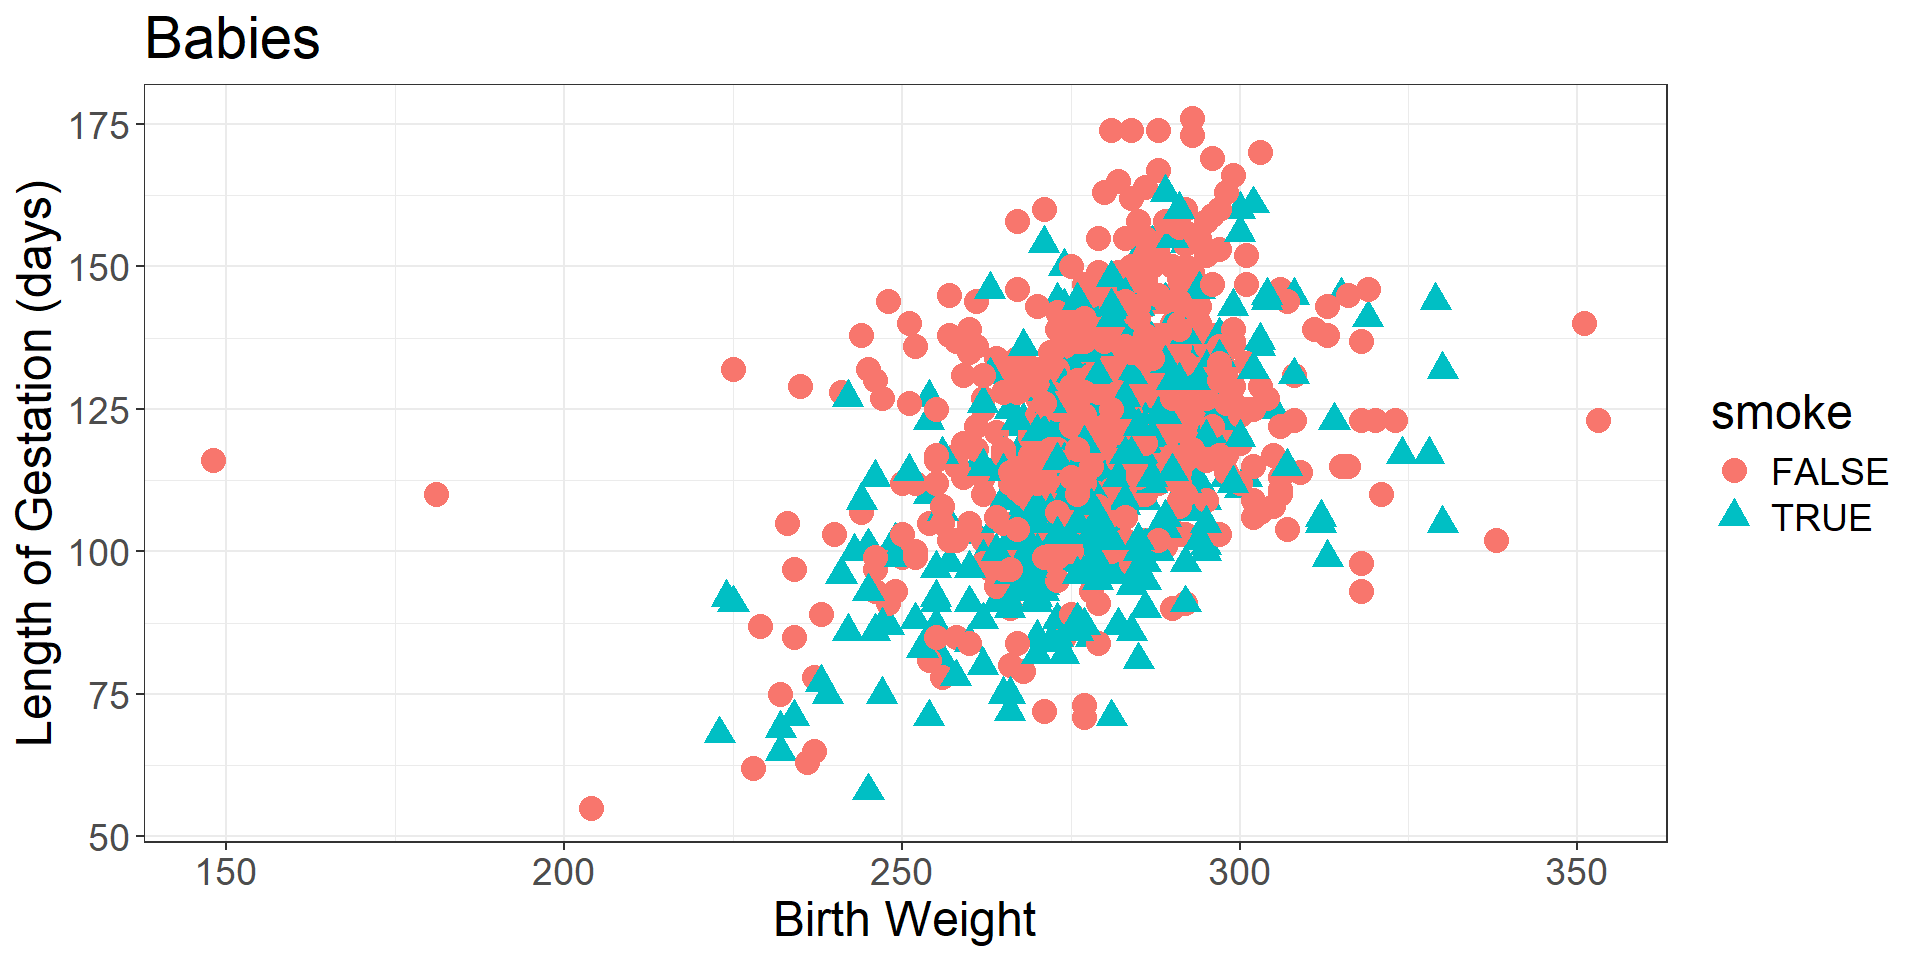
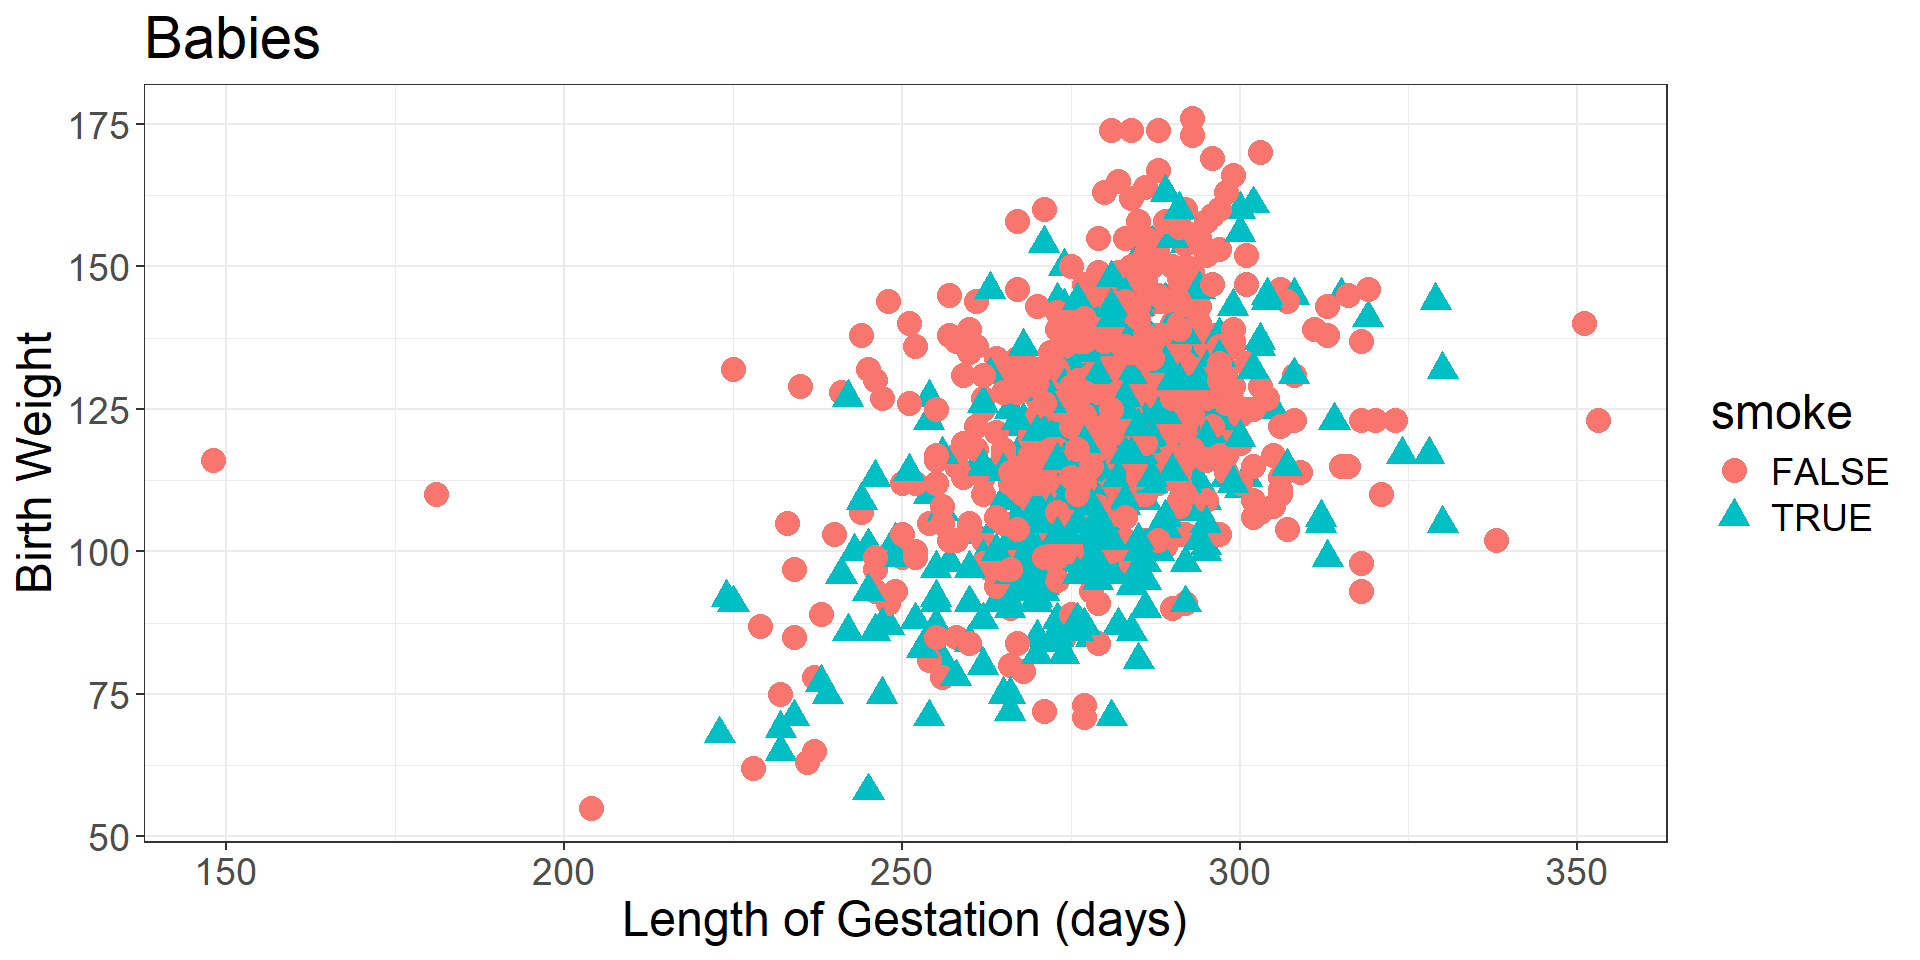
names of the axes reversed

Changed region(s): [[0.0, 0.1875, 0.0312, 0.7812], [0.3125, 0.9375, 0.625, 1.0]]

diff --git a/03-Week-03/01-Lecture-04-Lab-02.html b/03-Week-03/01-Lecture-04-Lab-02.html
@@ -963,8 +963,8 @@
 <span id="cb16-4"><a href=""></a>           <span class="at">shape =</span> smoke,</span>
 <span id="cb16-5"><a href=""></a>           <span class="at">color =</span> smoke)) <span class="sc">+</span></span>
 <span id="cb16-6"><a href=""></a>  <span class="fu">geom_point</span>(<span class="at">size =</span> <span class="dv">4</span>) <span class="sc">+</span></span>
-<span id="cb16-7"><a href=""></a>  <span class="fu">labs</span>(<span class="at">x =</span> <span class="st">"Birth Weight"</span>,</span>
-<span id="cb16-8"><a href=""></a>       <span class="at">y =</span> <span class="st">"Length of Gestation (days)"</span>,</span>
+<span id="cb16-7"><a href=""></a>  <span class="fu">labs</span>(<span class="at">x =</span> <span class="st">"Length of Gestation (days)"</span>,</span>
+<span id="cb16-8"><a href=""></a>       <span class="at">y =</span> <span class="st">"Birth Weight"</span>,</span>
 <span id="cb16-9"><a href=""></a>       <span class="at">title =</span> <span class="st">"Babies"</span>)</span></code><button title="Copy to Clipboard" class="code-copy-button"><i class="bi"></i></button></pre></div>
 </div><div class="column">
 <div class="cell-output-display">
@@ -988,8 +988,8 @@
 <span id="cb17-4"><a href=""></a>           <span class="at">shape =</span> smoke,</span>
 <span id="cb17-5"><a href=""></a>           <span class="at">color =</span> smoke)) <span class="sc">+</span></span>
 <span id="cb17-6"><a href=""></a>  <span class="fu">geom_point</span>(<span class="at">size =</span> <span class="dv">4</span>) <span class="sc">+</span></span>
-<span id="cb17-7"><a href=""></a>  <span class="fu">labs</span>(<span class="at">x =</span> <span class="st">"Birth Weight"</span>,</span>
-<span id="cb17-8"><a href=""></a>       <span class="at">y =</span> <span class="st">"Length of Gestation (days)"</span>,</span>
+<span id="cb17-7"><a href=""></a>  <span class="fu">labs</span>(<span class="at">x =</span> <span class="st">"Length of Gestation (days)"</span>,</span>
+<span id="cb17-8"><a href=""></a>       <span class="at">y =</span> <span class="st">"Birth Weight"</span>,</span>
 <span id="cb17-9"><a href=""></a>       <span class="at">title =</span> <span class="st">"Babies"</span>) <span class="sc">+</span></span>
 <span id="cb17-10"><a href=""></a>  <span class="fu">theme_bw</span>()</span></code><button title="Copy to Clipboard" class="code-copy-button"><i class="bi"></i></button></pre></div>
 </div><div class="column">
@@ -1014,8 +1014,8 @@
 <span id="cb18-4"><a href=""></a>           <span class="at">shape =</span> smoke,</span>
 <span id="cb18-5"><a href=""></a>           <span class="at">color =</span> smoke)) <span class="sc">+</span></span>
 <span id="cb18-6"><a href=""></a>  <span class="fu">geom_point</span>(<span class="at">size =</span> <span class="dv">4</span>) <span class="sc">+</span></span>
-<span id="cb18-7"><a href=""></a>  <span class="fu">labs</span>(<span class="at">x =</span> <span class="st">"Birth Weight"</span>,</span>
-<span id="cb18-8"><a href=""></a>       <span class="at">y =</span> <span class="st">"Length of Gestation (days)"</span>,</span>
+<span id="cb18-7"><a href=""></a>  <span class="fu">labs</span>(<span class="at">x =</span> <span class="st">"Length of Gestation (days)"</span>,</span>
+<span id="cb18-8"><a href=""></a>       <span class="at">y =</span> <span class="st">"Birth Weight"</span>,</span>
 <span id="cb18-9"><a href=""></a>       <span class="at">title =</span> <span class="st">"Babies"</span>) <span class="sc">+</span></span>
 <span id="cb18-10"><a href=""></a>  <span class="fu">theme_bw</span>() <span class="sc">+</span></span>
 <span id="cb18-11"><a href=""></a>  <span class="fu">theme</span>(<span class="at">text =</span> <span class="fu">element_text</span>(<span class="at">size=</span><span class="dv">18</span>))</span></code><button title="Copy to Clipboard" class="code-copy-button"><i class="bi"></i></button></pre></div>
